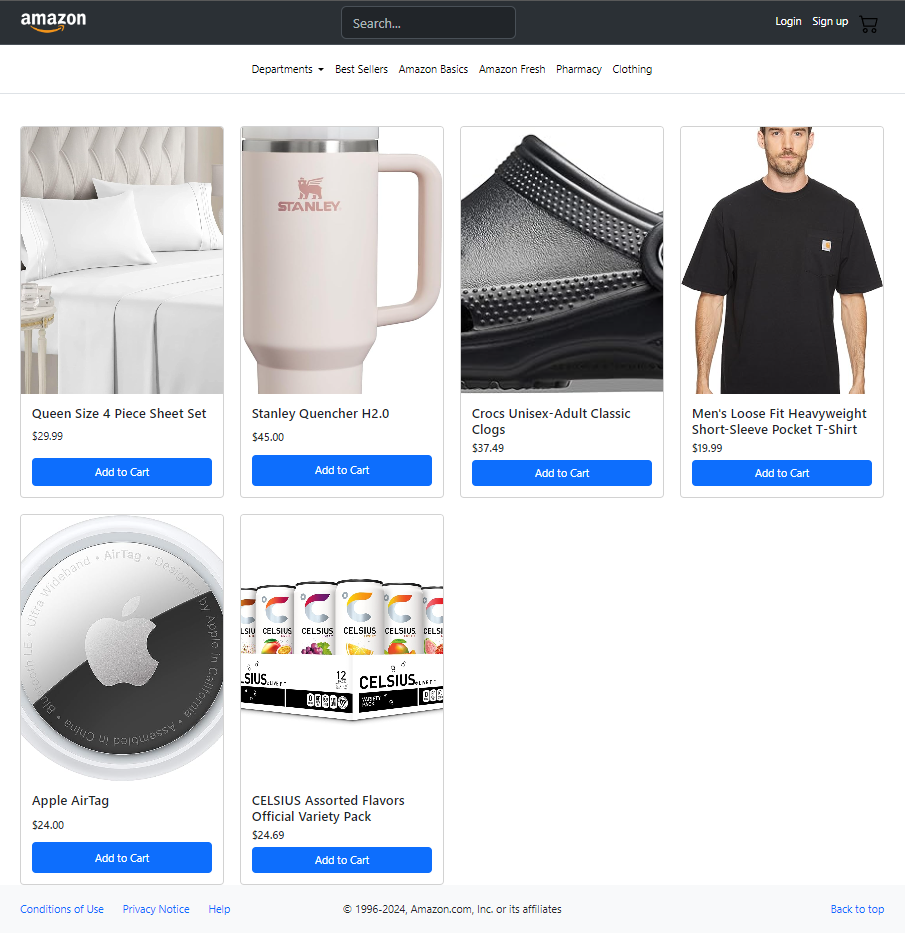
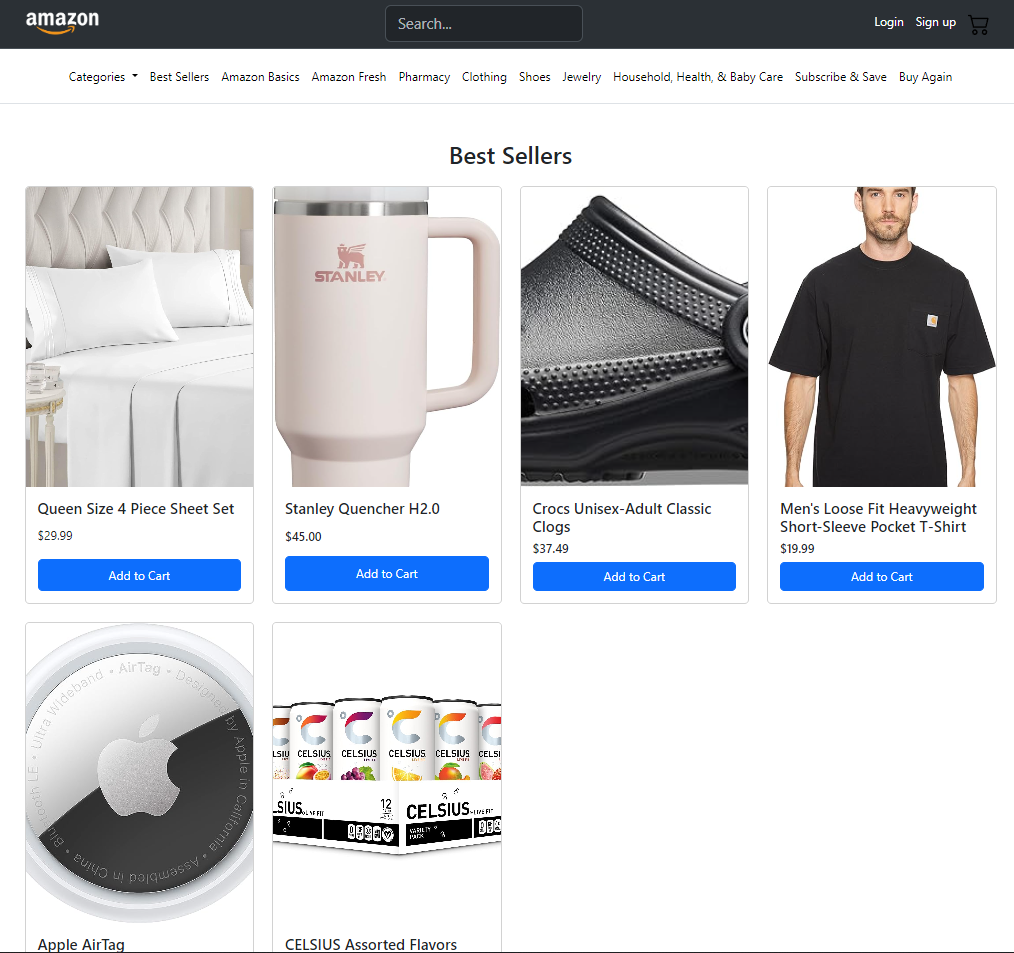
headings

diff --git a/products/products.html b/products/products.html
@@ -64,9 +64,11 @@
   </div>
 </header>
 
-    <!--PRODUCTS-->
 
+
+    <!--PRODUCTS-->
     <div class="container mt-5">
+      <h2 class="text-center mb-4">Best Sellers</h2>
       <div class="row row-cols-1 row-cols-sm-2 row-cols-md-3 row-cols-lg-4 g-4">
         <!-- Product 1 -->
         <div class="col">
